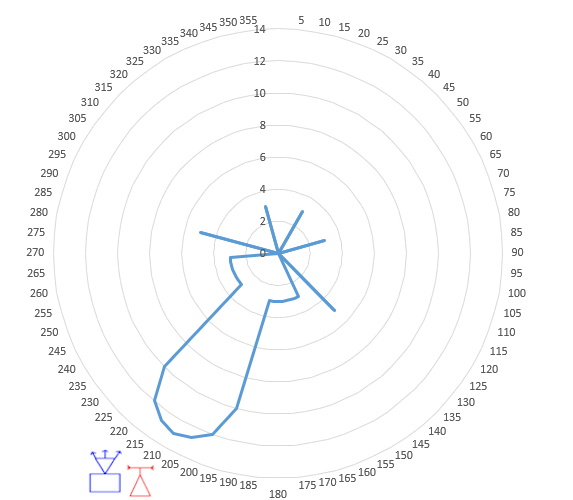
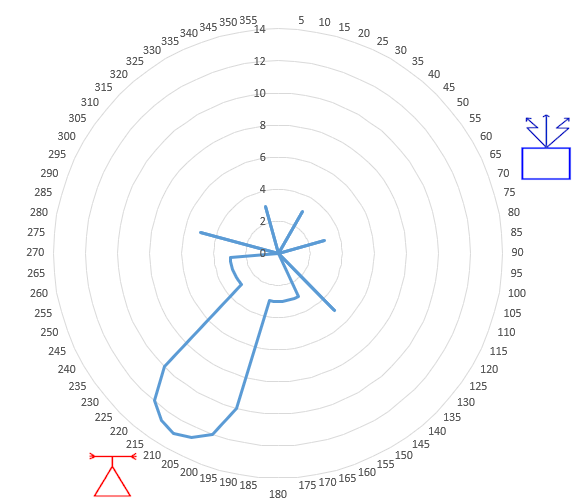
change sign and main form

Changed region(s): [[0.1483, 0.9, 0.267, 1.0], [0.8901, 0.24, 1.0, 0.36]]

diff --git a/GUI/main_emu.py b/GUI/main_emu.py
@@ -14,7 +14,7 @@ from PyQt5 import QtCore, QtGui, QtWidgets
 class Ui_MainWindow(object):
     def setupUi(self, MainWindow):
         MainWindow.setObjectName("MainWindow")
-        MainWindow.resize(1140, 943)
+        MainWindow.resize(1184, 943)
         self.centralwidget = QtWidgets.QWidget(MainWindow)
         self.centralwidget.setObjectName("centralwidget")
         self.label = QtWidgets.QLabel(self.centralwidget)
@@ -65,13 +65,13 @@ class Ui_MainWindow(object):
         self.textEdit_message.setGeometry(QtCore.QRect(10, 250, 471, 271))
         self.textEdit_message.setObjectName("textEdit_message")
         self.groupBox_2 = QtWidgets.QGroupBox(self.centralwidget)
-        self.groupBox_2.setGeometry(QtCore.QRect(520, 290, 611, 611))
+        self.groupBox_2.setGeometry(QtCore.QRect(520, 290, 651, 611))
         self.groupBox_2.setObjectName("groupBox_2")
         self.groupBox_4 = QtWidgets.QGroupBox(self.groupBox_2)
-        self.groupBox_4.setGeometry(QtCore.QRect(10, 20, 591, 581))
+        self.groupBox_4.setGeometry(QtCore.QRect(10, 20, 631, 581))
         self.groupBox_4.setObjectName("groupBox_4")
         self.label_diagram = QtWidgets.QLabel(self.groupBox_4)
-        self.label_diagram.setGeometry(QtCore.QRect(10, 30, 561, 491))
+        self.label_diagram.setGeometry(QtCore.QRect(10, 30, 611, 491))
         self.label_diagram.setText("")
         self.label_diagram.setObjectName("label_diagram")
         self.label_36 = QtWidgets.QLabel(self.groupBox_4)
@@ -427,7 +427,7 @@ class Ui_MainWindow(object):
         self.pushButton_arrow_down_pom.setObjectName("pushButton_arrow_down_pom")
         MainWindow.setCentralWidget(self.centralwidget)
         self.menubar = QtWidgets.QMenuBar(MainWindow)
-        self.menubar.setGeometry(QtCore.QRect(0, 0, 1140, 21))
+        self.menubar.setGeometry(QtCore.QRect(0, 0, 1184, 21))
         self.menubar.setObjectName("menubar")
         MainWindow.setMenuBar(self.menubar)
         self.statusbar = QtWidgets.QStatusBar(MainWindow)
